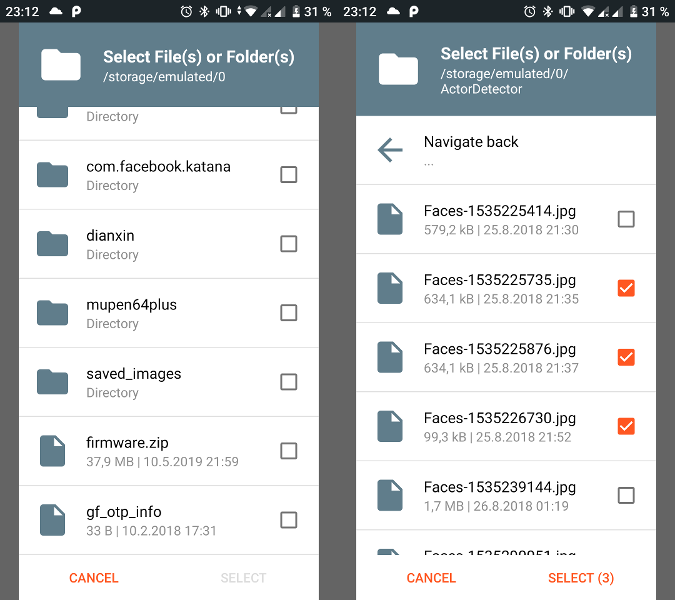
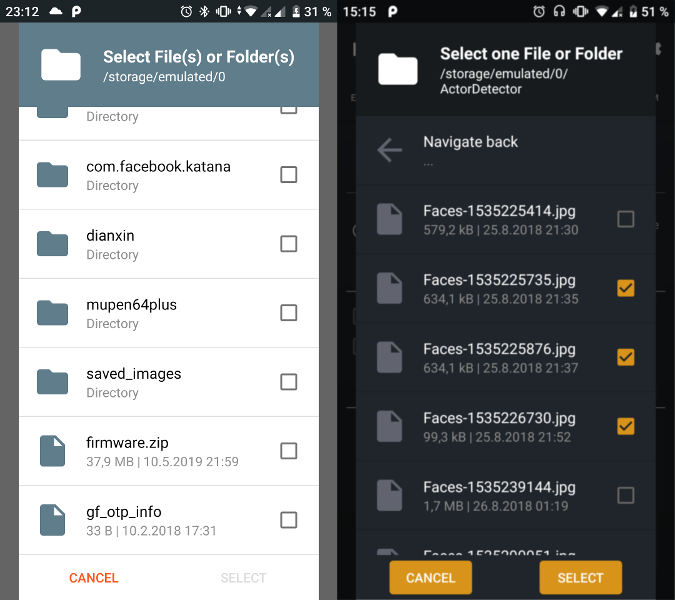
Fixed single file / single folder selection mode. Updated README.md

diff --git a/file-directory-picker-dialog/src/main/java/net/monoflop/filedirectorypicker/FileDirectoryPickerDialog.java b/file-directory-picker-dialog/src/main/java/net/monoflop/filedirectorypicker/FileDirectoryPickerDialog.java
@@ -418,7 +418,8 @@ public class FileDirectoryPickerDialog extends DialogFragment implements EntryAd
 					if(activeEntry.isSelected() && !activeEntry.getFile().equals(selectedFile))
 					{
 						activeEntry.setSelected(false);
-						entryAdapter.notifyItemChanged(entryList.indexOf(activeEntry));
+						requireActivity().runOnUiThread(() ->
+								entryAdapter.notifyItemChanged(entryList.indexOf(activeEntry)));
 					}
 				}
 
@@ -434,6 +435,15 @@ public class FileDirectoryPickerDialog extends DialogFragment implements EntryAd
 				else if (selectedFile.isDirectory())
 				{
 					selectedFolders.add(selectedFile);
+				}
+
+				//Mark entry as selected
+				for(Entry activeEntry : entryList)
+				{
+					if(activeEntry.getFile().equals(selectedFile))
+					{
+						activeEntry.setSelected(true);
+					}
 				}
 			}
 			else
@@ -469,7 +479,8 @@ public class FileDirectoryPickerDialog extends DialogFragment implements EntryAd
 					if(activeEntry.isSelected() && !activeEntry.getFile().equals(selectedFile))
 					{
 						activeEntry.setSelected(false);
-						entryAdapter.notifyItemChanged(entryList.indexOf(activeEntry));
+						requireActivity().runOnUiThread(() ->
+								entryAdapter.notifyItemChanged(entryList.indexOf(activeEntry)));
 					}
 				}
 
@@ -483,6 +494,15 @@ public class FileDirectoryPickerDialog extends DialogFragment implements EntryAd
 				} else if (selectedFile.isDirectory())
 				{
 					selectedFolders.add(selectedFile);
+				}
+
+				//Mark entry as selected
+				for(Entry activeEntry : entryList)
+				{
+					if(activeEntry.getFile().equals(selectedFile))
+					{
+						activeEntry.setSelected(true);
+					}
 				}
 			}
 			//Deselect
@@ -510,7 +530,7 @@ public class FileDirectoryPickerDialog extends DialogFragment implements EntryAd
 		else
 		{
 			//Select new entry
-			if (selected)
+			if(selected)
 			{
 				if (selectedFile.isFile())
 				{

diff --git a/README.md b/README.md
@@ -5,6 +5,7 @@ Simple file and directory picker library for Android.
 * Select file(s)
 * Select folder(s)
 * Filter file extensions
+* Customize dialog theme
 
 ![Screenshot](/image/screen1.png?raw=true "Screenshot")
 
@@ -25,7 +26,7 @@ Add the dependency
 
 ```
 dependencies {
-    implementation 'com.github.monoflop:FileDirectoryPicker:1.0.0'
+    implementation 'com.github.monoflop:FileDirectoryPicker:1.1.0'
 }
 ```
 
@@ -47,6 +48,20 @@ dependencies {
 | showAnimations | Show window animation | true |
 | customAnimation | Customize window animation with style. Overwrite android:windowEnterAnimation and android:windowExitAnimation. | null |
 | showDirectoryInfo | Show folder size and file count | false |
+| customTheme | Customize dialog theme | null |
+
+### Custom theme builder
+| function                    | description               | default value |
+| :--------------------------:| :-----------:             | :-----------: |
+| headerImage | Header image color | #ffffff |
+| headerTitle | Header title color | #ffffff |
+| headerPath | Header path color | #ffffff |
+| headerBackground | Header background color | colorPrimary |
+| background | Background color | #ffffff |
+| entryImage | File / folder image color | colorPrimary |
+| entryName | File / folder name color | #000000 |
+| entryInfo | File / folder size / count color | #8F8F8F |
+
 
 
 ```java
